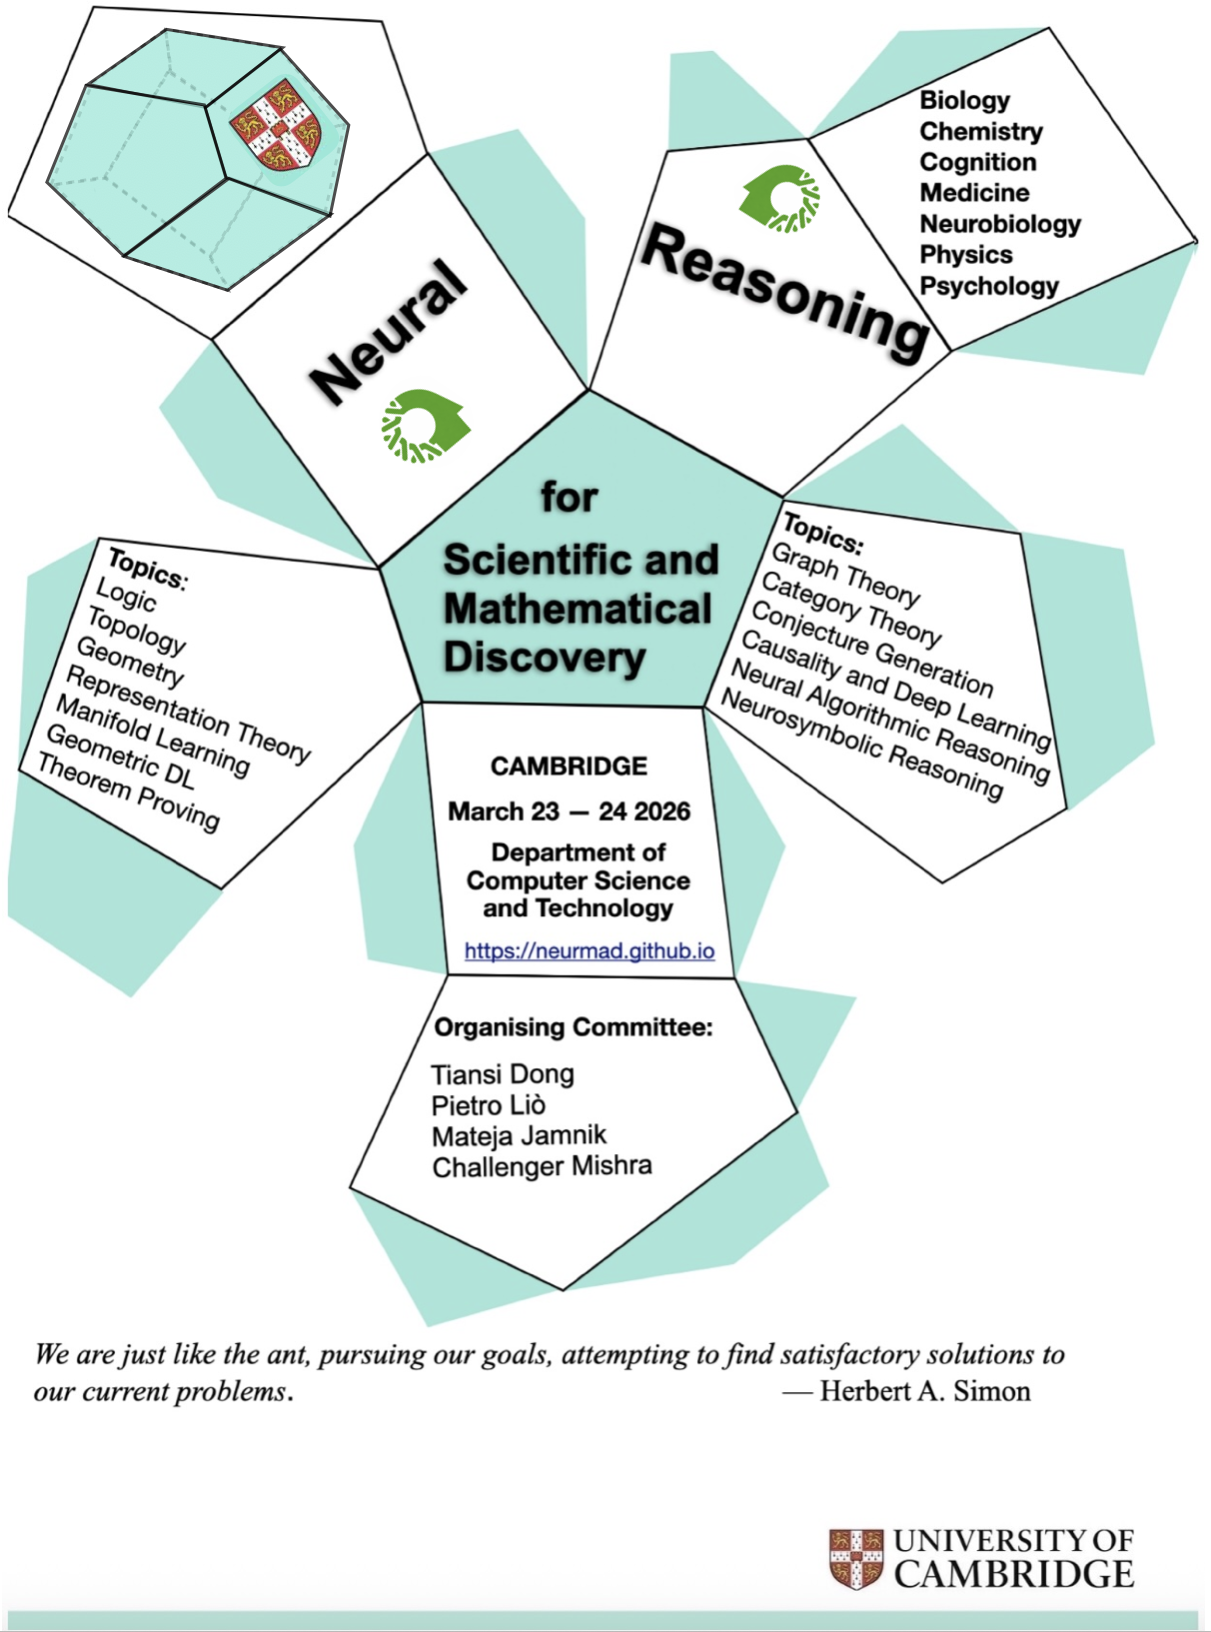
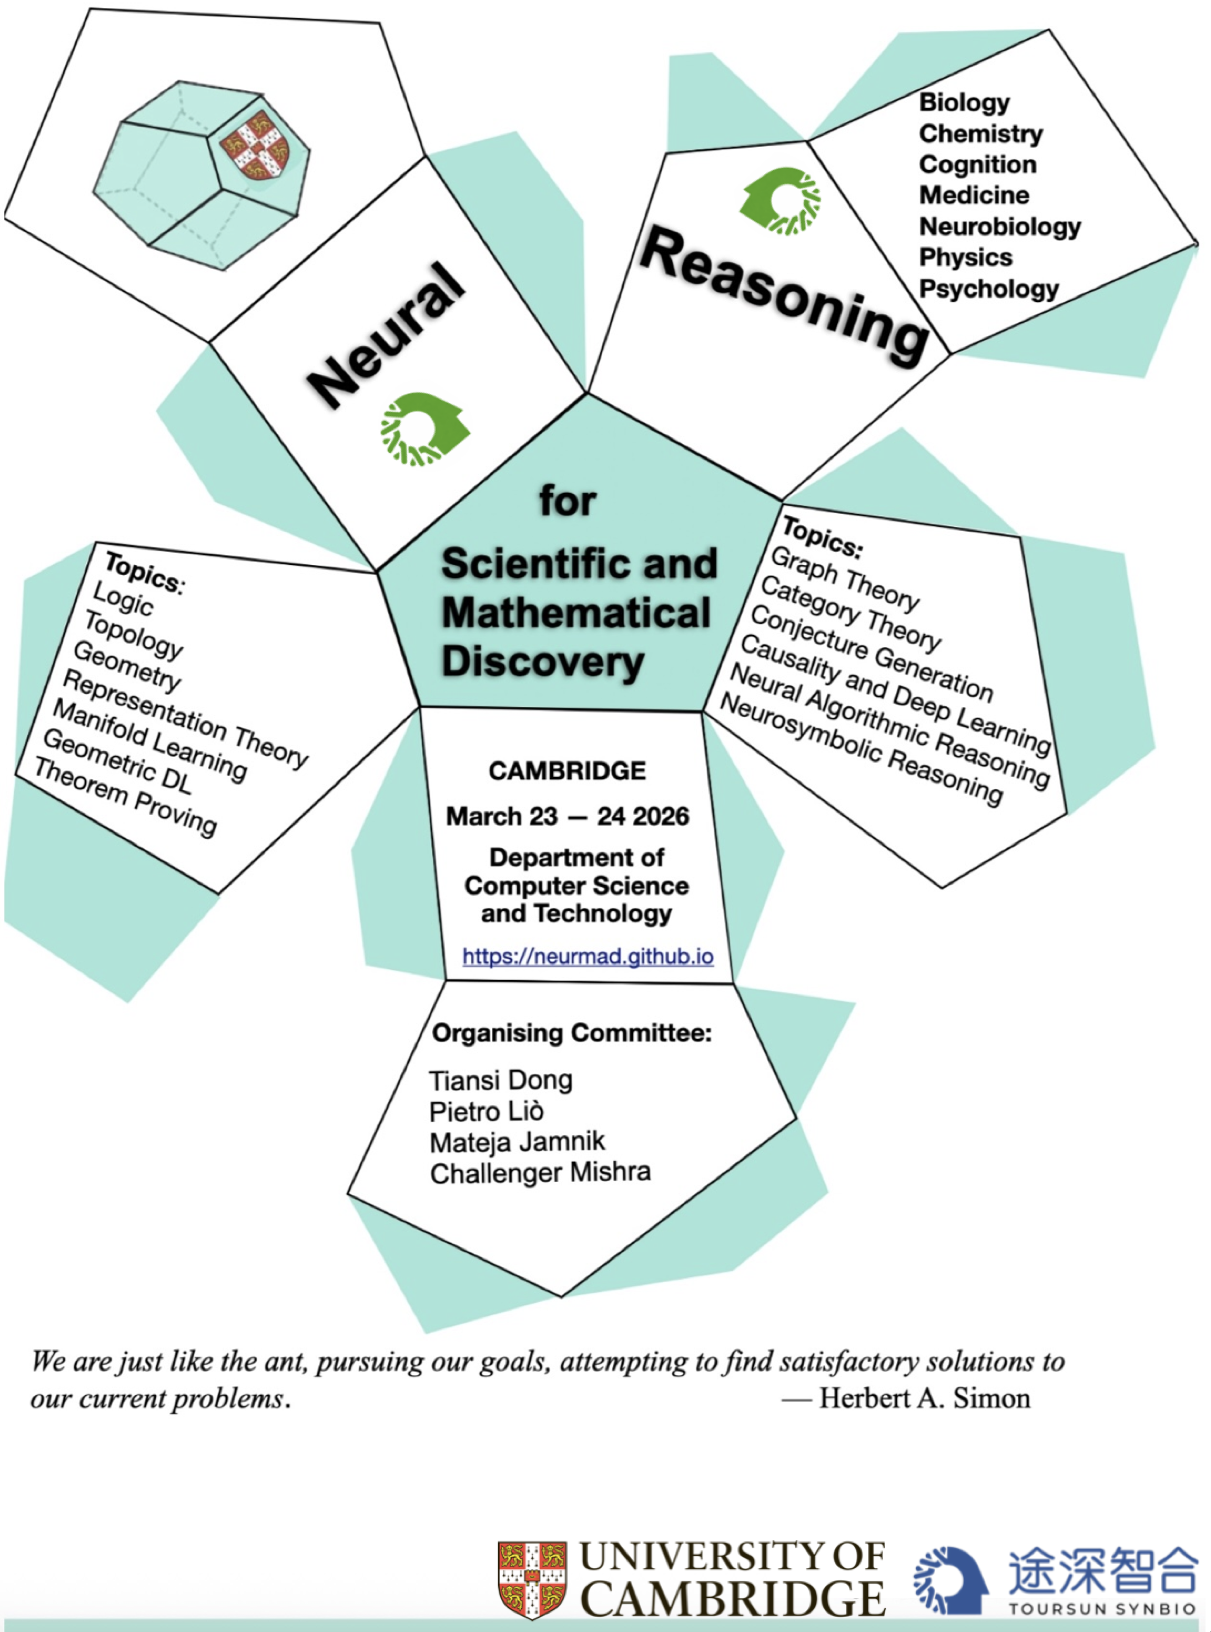
update flyer

diff --git a/_site/index.html b/_site/index.html
@@ -281,7 +281,7 @@ Besides mathematical and scientific discovery, the success of neural networks is
 <div class="invited_speakers">   
  
   <div class="poster">
-  <a href="intro.html"><img src="/assets/images/flyer.jpg" alt="flyer"></a>
+  <a href="intro.html"><img src="/assets/images/flyer.png" alt="flyer"></a>
   </div>
   <!--div class="invited_speaker">
     <a href="https://corneliocristina.github.io/"><img src="/assets/images/cristina.jpeg" alt="Cristina Cornelio"></a>

diff --git a/index.html b/index.html
@@ -281,7 +281,7 @@ Besides mathematical and scientific discovery, the success of neural networks is
 <div class="invited_speakers">   
  
   <div class="poster">
-  <a href="intro.html"><img src="/assets/images/flyer.jpg" alt="flyer"></a>
+  <a href="intro.html"><img src="/assets/images/flyer.png" alt="flyer"></a>
   </div>
   <!--div class="invited_speaker">
     <a href="https://corneliocristina.github.io/"><img src="/assets/images/cristina.jpeg" alt="Cristina Cornelio"></a>
